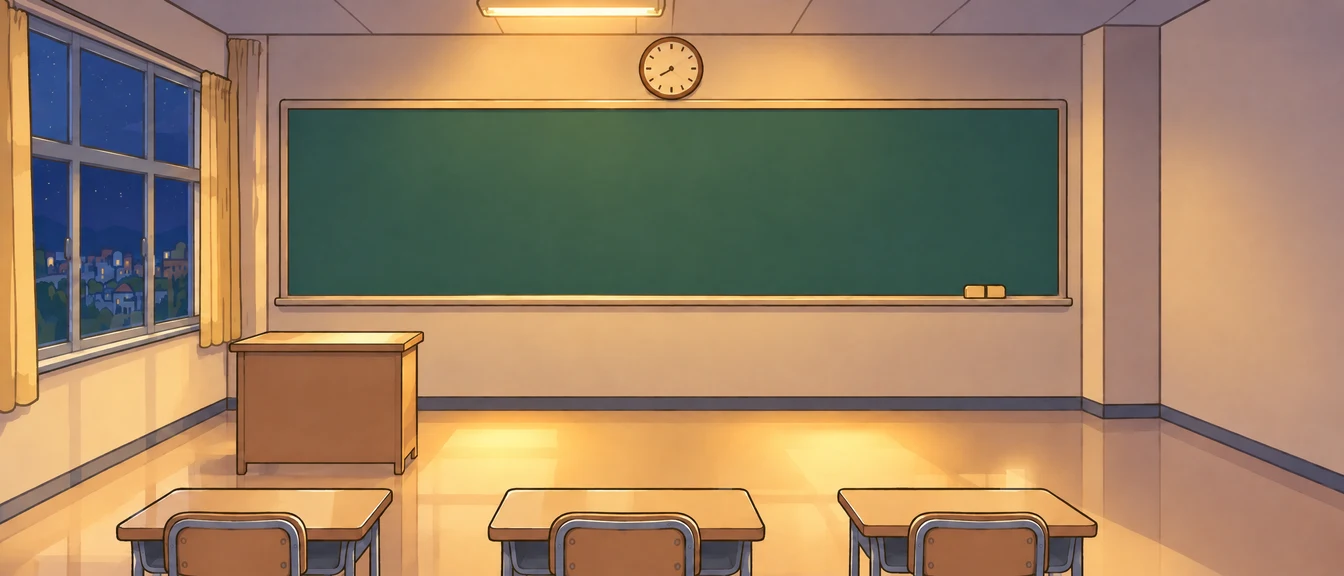
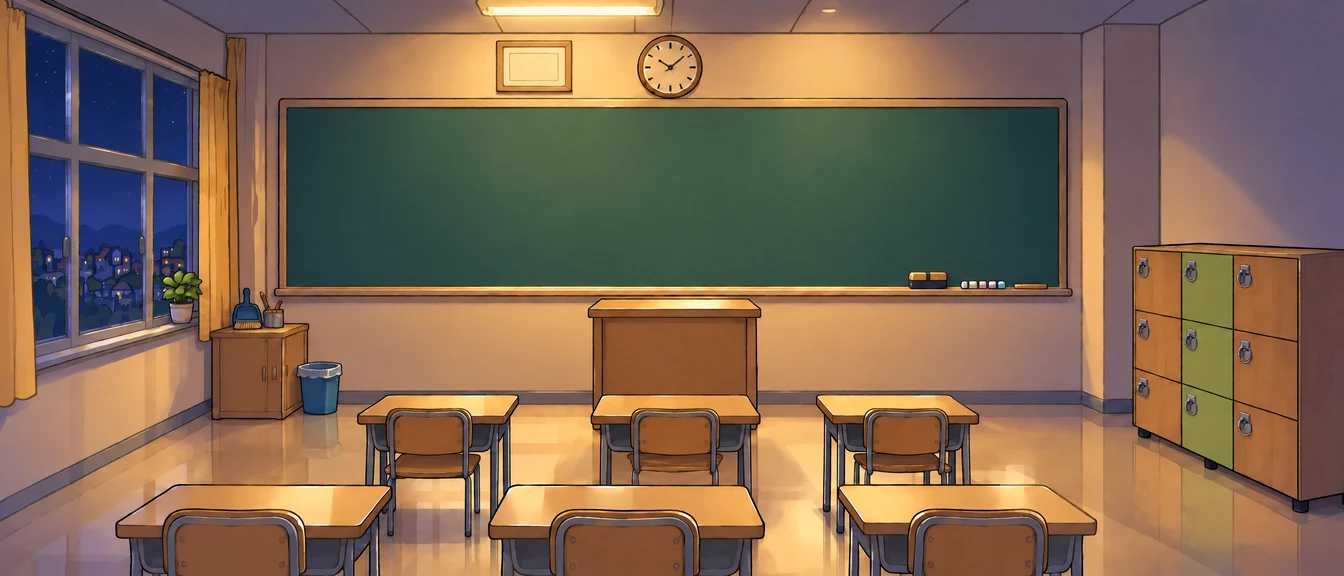
feat: fuller classroom with a centred podium and a cubby cabinet on the wall
The classroom is redrawn with the teacher's podium in the centre, two
rows of desks, everyday front-wall details, and a wooden cubby cabinet
built into the right wall. Map lockers are now that cabinet's nine doors
(perspective-clipped buttons with bold name cards and paint), replacing
the floating locker row. Today's quotes sit small at the board's right
edge under a chalk date and D-day.

diff --git a/src/features/classroom/ClassroomMapPage.tsx b/src/features/classroom/ClassroomMapPage.tsx
@@ -21,6 +21,8 @@ import { getCsatDdayLabel } from '@/features/csat/csatSchedule'
 import { AppShell } from '@/layout/AppShell'
 import { usePrototypeStore } from '@/store/prototypeStore'
 import { getTodaysBoardQuotes } from './boardQuotes'
+import { CABINET_CELLS, cabinetCells } from './classroomCabinet'
+import { getLockerPaint } from './lockerDecor'
 import { LockerMiniDoor } from './LockerScene'
 import { useDeskDaypart } from '@/features/desk/useDeskDaypart'
 import './Classroom.css'
@@ -28,9 +30,8 @@ import './Classroom.css'
 /** classroom-day/night.webp are 1344 × 576. */
 const CLASSROOM_PHOTO_RATIO = 1344 / 576
 
-/** Lockers drawn in the bank on the map; empty seats fill it up to the minimum. */
-const MAP_LOCKER_MIN = 6
-const MAP_LOCKER_MAX = 8
+/** One locker per door of the cabinet drawn on the right wall; the rest are empty seats. */
+const MAP_LOCKER_MAX = CABINET_CELLS
 
 const zoneLabels = ['창가', '칠판', '사물함'] as const
 
@@ -94,7 +95,6 @@ export function ClassroomMapPage() {
     ...(myLocker ? [myLocker] : []),
     ...otherLockers,
   ].slice(0, MAP_LOCKER_MAX)
-  const emptySeats = Math.max(0, MAP_LOCKER_MIN - bankLockers.length)
   const hiddenLockerCount = classroom.lockers.length - bankLockers.length
 
   const inviteFriends = async () => {
@@ -189,6 +189,16 @@ export function ClassroomMapPage() {
                 )
               }
             >
+              {/* Like a real board: today's date and the D-day in the corner */}
+              <span className="classroom-map__chalk-date">
+                {new Intl.DateTimeFormat('ko-KR', {
+                  month: 'long',
+                  day: 'numeric',
+                  weekday: 'short',
+                }).format(new Date())}
+                <br />
+                {getCsatDdayLabel().replace('수능까지 ', '수능 ')}
+              </span>
               <span className="classroom-map__chalk">
                 <span className="classroom-map__chalk-title">
                   수능까지 같이 가자!
@@ -225,47 +235,62 @@ export function ClassroomMapPage() {
               </span>
             </button>
 
-            <div
-              className="classroom-map__lockers"
-              style={{
-                '--locker-count': bankLockers.length + emptySeats,
-              } as React.CSSProperties}
-            >
-              {bankLockers.map((locker) => (
-                <button
-                  type="button"
-                  key={locker.id}
-                  className="classroom-map__locker-button"
-                  aria-label={`${locker.studentName}의 사물함`}
-                  onClick={() =>
-                    navigate(
-                      `/prototype/classroom/${id}/locker/${locker.id}`,
-                    )
-                  }
-                >
-                  <LockerMiniDoor
-                    studentName={locker.studentName}
-                    active={locker.id === member.lockerId}
-                    paint={lockerDecor[locker.id]?.outside}
+            {/* Doors of the cubby cabinet drawn on the right wall */}
+            <div className="classroom-map__cabinet">
+              {cabinetCells.map((cell, index) => {
+                const locker = bankLockers[index]
+                const mine = locker?.id === member.lockerId
+                const paint = locker ? lockerDecor[locker.id]?.outside : undefined
+
+                return (
+                  <button
+                    type="button"
+                    key={locker?.id ?? `empty-${index}`}
+                    className={[
+                      'classroom-map__cubby',
+                      locker ? '' : 'classroom-map__cubby--empty',
+                      mine ? 'classroom-map__cubby--mine' : '',
+                    ].filter(Boolean).join(' ')}
+                    style={{
+                      clipPath: cell.clipPath,
+                      '--cubby-paint': paint ? getLockerPaint(paint).swatch : undefined,
+                    } as React.CSSProperties}
+                    aria-label={
+                      locker
+                        ? `${locker.studentName}의 사물함`
+                        : '빈 사물함 · 친구 초대하기'
+                    }
+                    onClick={() =>
+                      locker
+                        ? navigate(`/prototype/classroom/${id}/locker/${locker.id}`)
+                        : inviteFriends()
+                    }
                   />
-                  {locker.id === member.lockerId && (
-                    <span className="classroom-map__mine">
-                      내 사물함
-                    </span>
-                  )}
-                </button>
-              ))}
-              {Array.from({ length: emptySeats }, (_, index) => (
-                <button
-                  type="button"
-                  key={`empty-${index}`}
-                  className="classroom-map__locker-button classroom-map__locker-button--empty"
-                  aria-label="빈 사물함 · 친구 초대하기"
-                  onClick={inviteFriends}
-                >
-                  <LockerMiniDoor studentName="" />
-                </button>
-              ))}
+                )
+              })}
+              {cabinetCells.map((cell, index) => {
+                const locker = bankLockers[index]
+                if (!locker) return null
+                const mine = locker.id === member.lockerId
+
+                return (
+                  <span
+                    key={`label-${locker.id}`}
+                    className={[
+                      'classroom-map__cubby-name',
+                      mine ? 'classroom-map__cubby-name--mine' : '',
+                    ].filter(Boolean).join(' ')}
+                    style={{
+                      left: cell.labelLeft,
+                      top: cell.labelTop,
+                      transform: `translate(-50%, -50%) rotate(${cell.labelAngle}deg)`,
+                    }}
+                    aria-hidden
+                  >
+                    {mine ? `★ ${locker.studentName}` : locker.studentName}
+                  </span>
+                )
+              })}
             </div>
 
             <button

diff --git a/src/features/classroom/Classroom.css b/src/features/classroom/Classroom.css
@@ -1477,17 +1477,17 @@
 
 /* Chalk sits in the part of the board the centre camera stop shows */
 .classroom-map__chalk {
-  inset: 12% 45% 14% 28%;
+  inset: 14% 40% 14% 33%;
   transform: none;
   font-family: var(--font-hand);
 }
 
 .classroom-map__notes {
   position: absolute;
-  top: 10%;
-  bottom: 14%;
-  left: 57%;
-  width: 15%;
+  top: 27%;
+  bottom: 12%;
+  left: 63%;
+  width: 9.5%;
   display: grid;
   align-content: start;
   gap: 8%;
@@ -1495,11 +1495,11 @@
 
 .classroom-map__note {
   position: relative;
-  padding: 6% 8%;
+  padding: 6% 6%;
   background: var(--note-color);
   color: #4a3426;
   font-family: var(--font-hand);
-  font-size: clamp(10px, 2.1vh, 14px);
+  font-size: clamp(8px, 1.5vh, 11px);
   line-height: 1.25;
   text-align: center;
   word-break: keep-all;
@@ -1581,3 +1581,84 @@
   font-size: 10px;
   opacity: .7;
 }
+
+/* Date and D-day in chalk at the board's right corner, above the notes */
+.classroom-map__chalk-date {
+  position: absolute;
+  top: 6%;
+  left: 63%;
+  color: rgba(245, 226, 138, .9);
+  font-family: var(--font-hand);
+  font-size: clamp(10px, 1.9vh, 13px);
+  line-height: 1.35;
+  text-align: left;
+  pointer-events: none;
+}
+
+/* ---- Cubby cabinet doors on the right wall (illustration v6) ---- */
+.classroom-map__cabinet {
+  position: absolute;
+  inset: 0;
+  z-index: 2;
+  pointer-events: none;
+}
+
+/* Each door is a full-world button clipped to the door's perspective quad */
+.classroom-map__cubby {
+  position: absolute;
+  inset: 0;
+  padding: 0;
+  border: 0;
+  background: var(--cubby-paint, transparent);
+  opacity: .82;
+  cursor: pointer;
+  pointer-events: auto;
+  transition: background-color 160ms ease, filter 160ms ease;
+}
+
+.classroom-map__cubby:hover,
+.classroom-map__cubby:focus-visible {
+  background-color: var(--cubby-paint, rgba(255, 246, 214, .28));
+  outline: none;
+}
+
+.classroom-map__cubby--mine {
+  background-color: var(--cubby-paint, rgba(255, 236, 160, .3));
+  animation: classroom-cubby-glow 2.4s ease-in-out infinite;
+}
+
+@keyframes classroom-cubby-glow {
+  50% {
+    filter: brightness(1.12);
+  }
+}
+
+.classroom-map__cubby-name {
+  position: absolute;
+  z-index: 3;
+  padding: .12em .5em;
+  border: 1.5px solid #4a3426;
+  border-radius: 3px;
+  background: #fffaf0;
+  color: #2f2219;
+  /* bold sans so a name stays readable at map size */
+  font-family: inherit;
+  font-weight: 800;
+  letter-spacing: -.02em;
+  font-size: clamp(8px, 1.5vh, 11px);
+  line-height: 1.2;
+  white-space: nowrap;
+  pointer-events: none;
+}
+
+.classroom-map__cubby-name--mine {
+  background: #fff1b8;
+  font-weight: 700;
+}
+
+@media (prefers-reduced-motion: reduce) {
+  .classroom-map__cubby--mine {
+    animation: none;
+  }
+}
+

diff --git a/src/features/classroom/classroomCabinet.ts b/src/features/classroom/classroomCabinet.ts
@@ -1,0 +1,77 @@
+/**
+ * The wooden cubby cabinet drawn into classroom-day/night.webp (right wall).
+ * Measured on the 2688 × 1152 artwork: the front face is a perspective quad
+ * whose vertical edges stay vertical, so each door is found by interpolating
+ * between the face's top and bottom edges.
+ */
+const ART_W = 2688
+const ART_H = 1152
+
+const FACE = {
+  left: 2268,
+  right: 2597,
+  topLeft: 498,
+  topRight: 515,
+  bottomLeft: 855,
+  bottomRight: 1000,
+}
+
+/** Door column edges (x) and row edges (fraction of the face height) */
+const COLUMN_EDGES = [2268, 2362, 2466, 2597]
+const ROW_EDGES = [0, 0.342, 0.672, 1]
+
+export const CABINET_COLUMNS = COLUMN_EDGES.length - 1
+export const CABINET_ROWS = ROW_EDGES.length - 1
+export const CABINET_CELLS = CABINET_COLUMNS * CABINET_ROWS
+
+function faceY(x: number, fraction: number) {
+  const t = (x - FACE.left) / (FACE.right - FACE.left)
+  const top = FACE.topLeft + (FACE.topRight - FACE.topLeft) * t
+  const bottom = FACE.bottomLeft + (FACE.bottomRight - FACE.bottomLeft) * t
+  return top + (bottom - top) * fraction
+}
+
+const pct = (value: number, total: number) => `${((value / total) * 100).toFixed(2)}%`
+
+export type CabinetCell = {
+  /** CSS clip-path polygon in % of the classroom world */
+  clipPath: string
+  /** Where the name card goes, % of the world */
+  labelLeft: string
+  labelTop: string
+  /** Tilt that follows the perspective of the door's top edge */
+  labelAngle: number
+}
+
+/** Doors in reading order: top row left to right, then the rows below. */
+export const cabinetCells: CabinetCell[] = Array.from(
+  { length: CABINET_CELLS },
+  (_, index) => {
+    const row = Math.floor(index / CABINET_COLUMNS)
+    const column = index % CABINET_COLUMNS
+    // a hair inside the drawn door lines
+    const inset = 3
+    const x0 = COLUMN_EDGES[column]! + inset
+    const x1 = COLUMN_EDGES[column + 1]! - inset
+    const f0 = ROW_EDGES[row]!
+    const f1 = ROW_EDGES[row + 1]!
+    const points = [
+      [x0, faceY(x0, f0) + inset],
+      [x1, faceY(x1, f0) + inset],
+      [x1, faceY(x1, f1) - inset],
+      [x0, faceY(x0, f1) - inset],
+    ]
+    const labelFraction = f0 + (f1 - f0) * 0.2
+    const midX = (x0 + x1) / 2
+    const slope = (faceY(x1, labelFraction) - faceY(x0, labelFraction)) / (x1 - x0)
+
+    return {
+      clipPath: `polygon(${points
+        .map(([x, y]) => `${pct(x!, ART_W)} ${pct(y!, ART_H)}`)
+        .join(', ')})`,
+      labelLeft: pct(midX, ART_W),
+      labelTop: pct(faceY(midX, labelFraction), ART_H),
+      labelAngle: Math.round((Math.atan(slope) * 180) / Math.PI),
+    }
+  },
+)
